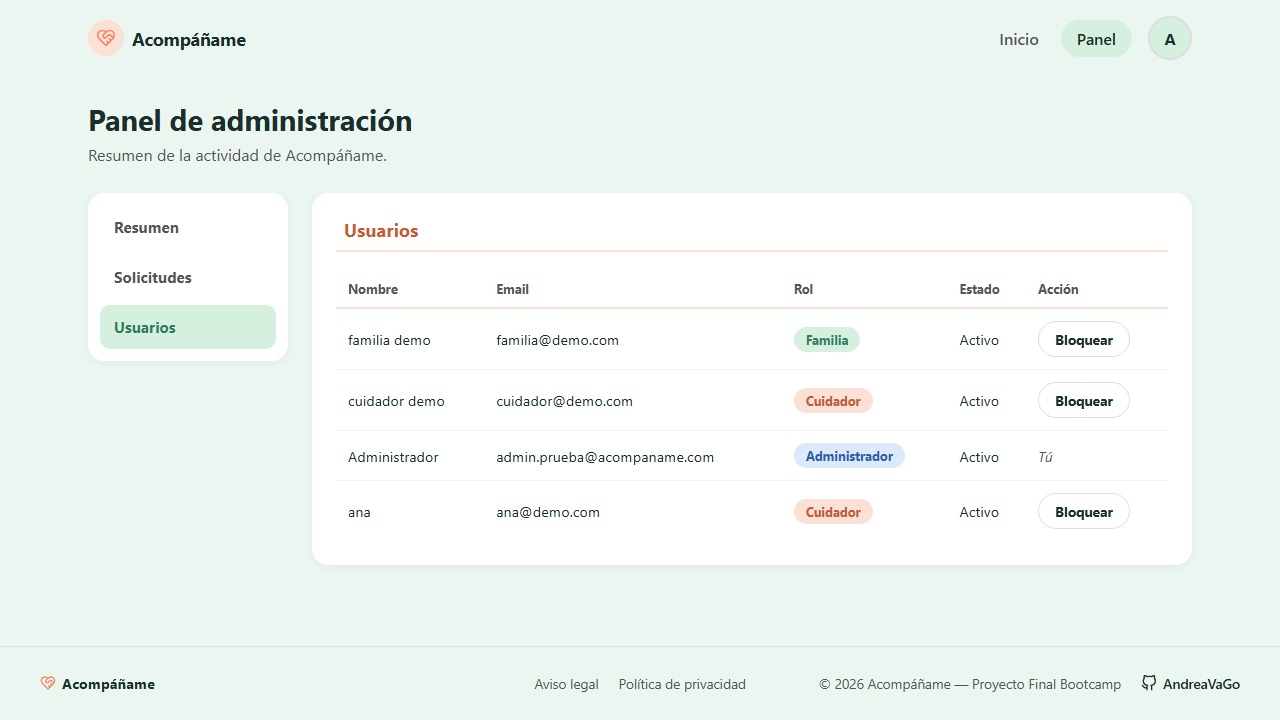
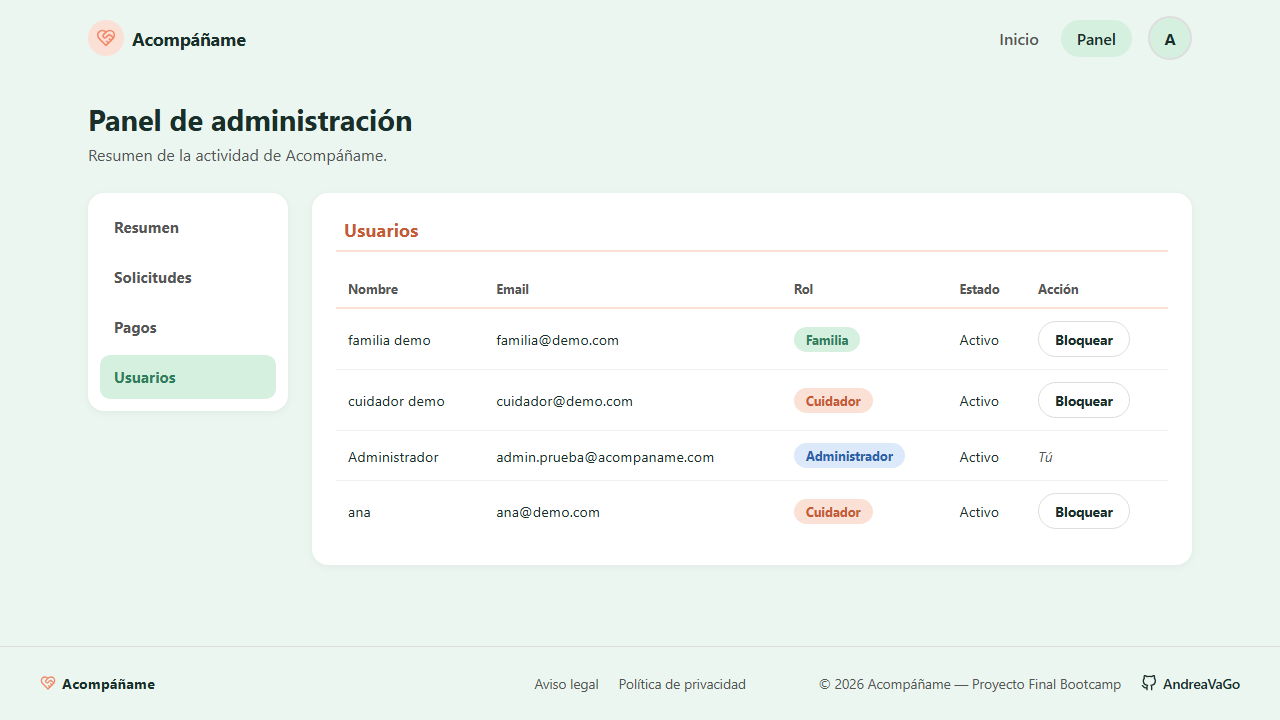
test(e2e): admin payments section shows cards, charts, filter and search (ACOM-157)
Claude-Session: https://claude.ai/code/session_01DpwaHzefiCVMSPPoQ2L7aU

Changed region(s): [[0.0625, 0.3972, 0.2188, 0.55]]

diff --git a/e2e/panel-admin.spec.js b/e2e/panel-admin.spec.js
@@ -31,6 +31,7 @@ test.describe("Panel de administración", () => {
     ).toBeVisible();
     await expect(botonMenu(page, "Resumen")).toHaveAttribute("aria-current", "page");
     await expect(botonMenu(page, "Solicitudes")).toBeVisible();
+    await expect(botonMenu(page, "Pagos")).toBeVisible();
     await expect(botonMenu(page, "Usuarios")).toBeVisible();
     await expect(bloqueResumen(page)).toBeVisible();
     await expect(page.getByText("Cuidadores mejor valorados")).toBeVisible();
@@ -56,6 +57,38 @@ test.describe("Panel de administración", () => {
     await expect(page.locator(".admin-solicitudes select")).toHaveValue("PENDIENTE");
     await expect(bloqueResumen(page)).toHaveCount(0);
     await page.screenshot({ path: "docs/screenshots/e2e-10-admin-solicitudes.png" });
+  });
+
+  test("la sección Pagos muestra las tarjetas, los gráficos y el detalle", async ({ page }) => {
+    await botonMenu(page, "Pagos").click();
+
+    await expect(botonMenu(page, "Pagos")).toHaveAttribute("aria-current", "page");
+    await expect(page.getByText("Total cobrado")).toBeVisible();
+    await expect(page.getByText("Pendiente de cobro")).toBeVisible();
+    await expect(page.getByText("Porcentaje cobrado")).toBeVisible();
+    await expect(page.getByRole("heading", { name: "Pagos por mes" })).toBeVisible();
+    await expect(
+      page.getByRole("heading", { name: "Facturado por tipo de cuidado" }),
+    ).toBeVisible();
+    await expect(
+      page.getByRole("heading", { name: "Cuidadores que más han cobrado" }),
+    ).toBeVisible();
+    await expect(page.getByRole("heading", { name: "Detalle de pagos" })).toBeVisible();
+    await expect(bloqueResumen(page)).toHaveCount(0);
+    await page.screenshot({ path: "docs/screenshots/e2e-11-admin-pagos.png", fullPage: true });
+  });
+
+  test("la tabla de pagos se puede filtrar por estado y buscar", async ({ page }) => {
+    await botonMenu(page, "Pagos").click();
+
+    await page.locator(".admin-pagos-tabla select").selectOption("CANCELADO");
+    await expect(page.locator(".admin-pagos-tabla select")).toHaveValue("CANCELADO");
+
+    // Con un texto que no existe, la tabla avisa (según haya pagos o no en ese estado)
+    await page.locator(".admin-pagos-tabla input[type='search']").fill("zzzzzz");
+    await expect(
+      page.getByText(/No hay pagos con este estado|Ningún pago coincide con la búsqueda/),
+    ).toBeVisible();
   });
 
   test("se puede volver al Resumen desde otra sección", async ({ page }) => {
